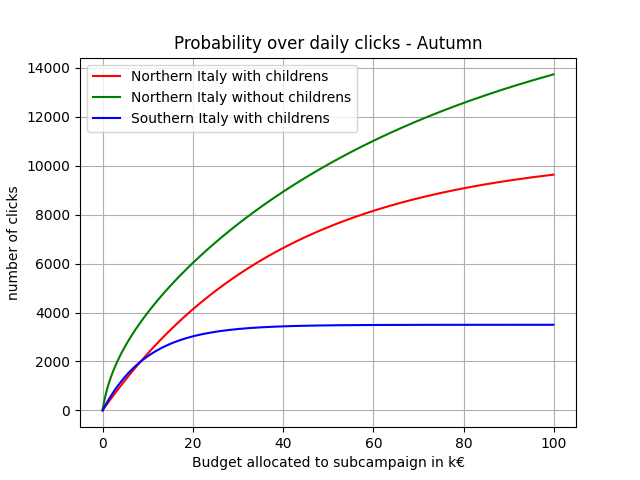
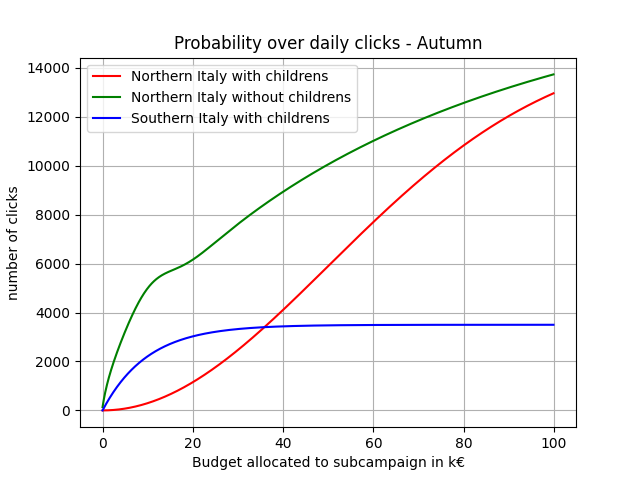
Push mor abrut functions

diff --git a/Non_Stationary/NSCMABEnvironment.py b/Non_Stationary/NSCMABEnvironment.py
@@ -1,28 +1,28 @@
 import numpy as np
 
 
-def fun(x, userType, phase):
+def fun(t, userType, phase):
     if (userType == 0):
         if (phase == 0):
-            return 10500 * (1 - np.exp((-1*x)/40))
+            return -15000 * np.exp(-np.power(t - 0, 2.) / (2 * np.power(50, 2.))) + 15000
         elif (phase == 1):
-            return 28000 * (1 - np.exp((-1 * x) / 85))
+            return 23000 * (1 - np.exp((-1*t)/85))
         else:
-            return 900 * np.log(x / 27 + 1)
+            return 900 * np.log(t/27+1)
     elif (userType == 1):
         if (phase == 0):
-            return 12000 * (1 - np.exp((-1 * x) / 70)) + 1000 * np.log(x + 1)
+            return 12000 * (1 - np.exp((-1*t)/70)) + 1000 * np.log(t+1) + 1000*np.exp(-np.power(t - 10, 2.) / (2 * np.power(5, 2.)))
         elif (phase == 1):
-            return 22000 * (1 - np.exp((-1 * x) / 40))
+            return -20000 * np.exp(-np.power(t - 0, 2.) / (2 * np.power(50, 2.))) + 20000
         else:
-            return 1100 * np.log(x / 20 + 1)
+            return 1100 * np.log(t / 20 + 1)
     else:
         if (phase == 0):
-            return 3500 * (1 - np.exp((-1 * x) / 10))
+            return 3500 * (1 - np.exp((-1*t)/10))
         elif (phase == 1):
-            return 13500 * (1 - np.exp((-1 * x) / 20))
+            return 11500 * (1 - np.exp((-1*t)/20)) + 13*t * np.sin(t)
         else:
-            return 700 * (1 - np.exp((-1 * x) / 40)) + 200 * np.log(x / 35 + 1)
+            return 700 * (1 - np.exp((-1 * t) / 40)) + 200 * np.log(t / 35 + 1)
 
 
 class NSCMABEnvironment():

diff --git a/probability_over_clicks.py b/probability_over_clicks.py
@@ -4,13 +4,13 @@ import numpy as np
 # Data for plotting
 t = np.arange(0.0, 100.0, 0.1)
 #Fall
-s1 = 10500 * (1 - np.exp((-1*t)/40))
-s2 = 12000 * (1 - np.exp((-1*t)/70)) + 1000 * np.log(t+1)
+s1 = -15000 * np.exp(-np.power(t - 0, 2.) / (2 * np.power(50, 2.))) + 15000
+s2 = 12000 * (1 - np.exp((-1*t)/70)) + 1000 * np.log(t+1) + 1000*np.exp(-np.power(t - 10, 2.) / (2 * np.power(5, 2.)))
 s3 = 3500 * (1 - np.exp((-1*t)/10))
 #Christmas
-w1 = 28000 * (1 - np.exp((-1*t)/85))
-w2 = 22000 * (1 - np.exp((-1*t)/40))
-w3 = 13500 * (1 - np.exp((-1*t)/20))
+w1 = 23000 * (1 - np.exp((-1*t)/85))
+w2 = -20000 * np.exp(-np.power(t - 0, 2.) / (2 * np.power(50, 2.))) + 20000
+w3 = 11500 * (1 - np.exp((-1*t)/20)) + 13*t * np.sin(t)
 #Spring
 pr1 = 900 * np.log(t/27+1)
 pr2 = 1100 * np.log(t/20+1)

diff --git a/Non_Stationary/cmab_with_phases.py b/Non_Stationary/cmab_with_phases.py
@@ -16,11 +16,10 @@ n_arms = [len(budgets_j[0]), len(budgets_j[1]), len(budgets_j[2])]
 sigma = 100
 T = 300  # T should be a multiple of env.N_PHASES or not all phases wil have same length
 J = 3
-n_experiments = 10
+n_experiments = 25
 per_experiment_rewards_gpts = [[] for i in range(0, J)]
 per_experiment_rewards_gpswts = [[] for j in range(0, J)]
 window_size = 97  #  4 * sqrt(N log(N)) with only one phase
-
 
 for e in range(0, n_experiments):
     opt = CMABOptimizer(max_budget=total_budget, campaign_number=J, step=step)

diff --git a/demand_cure_plotter.py b/demand_cure_plotter.py
@@ -3,7 +3,7 @@ import numpy as np
 
 # Data for plotting
 t = np.arange(90., 450., 0.1)
-#Fall
+
 s1 = 0.75*np.exp(-np.power(t - 200, 2.) / (2 * np.power(90, 2.))) + 0.3*np.exp(-np.power(t - 60, 2.) / (2 * np.power(60, 2.)))
 s2 = 0.75*np.exp(-np.power(t - 250, 2.) / (2 * np.power(90, 2.))) + 0.55*np.exp(-np.power(t - 65, 2.) / (2 * np.power(90, 2.)))
 s3 = 0.42*np.exp(-np.power(t - 180, 2.) / (2 * np.power(90, 2.))) + 0.35*np.exp(-np.power(t - 85, 2.) / (2 * np.power(120, 2.)))
